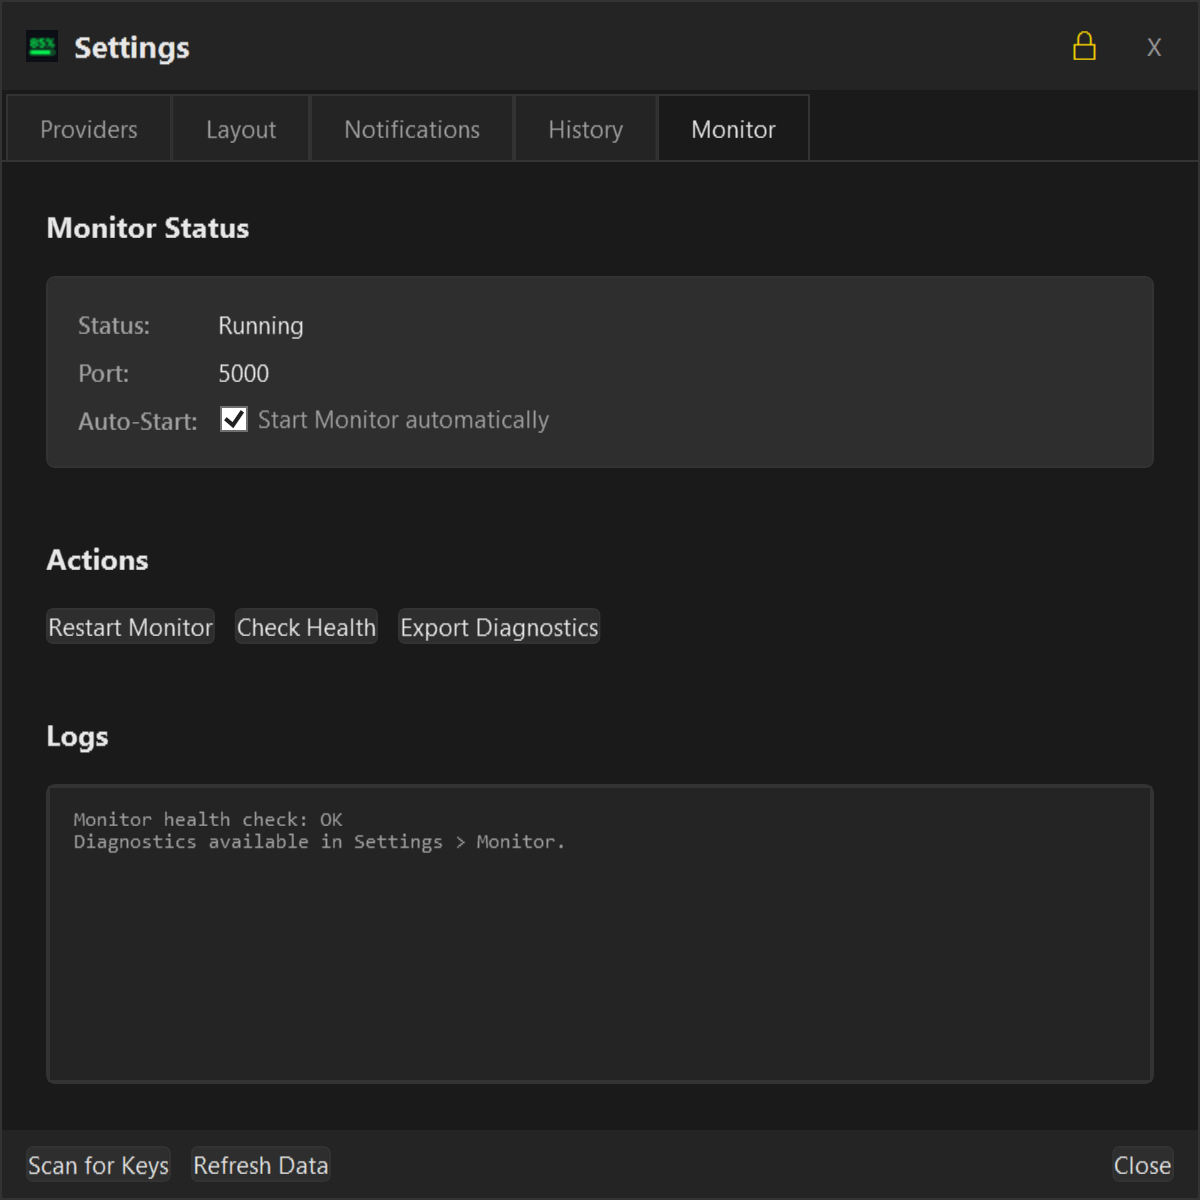
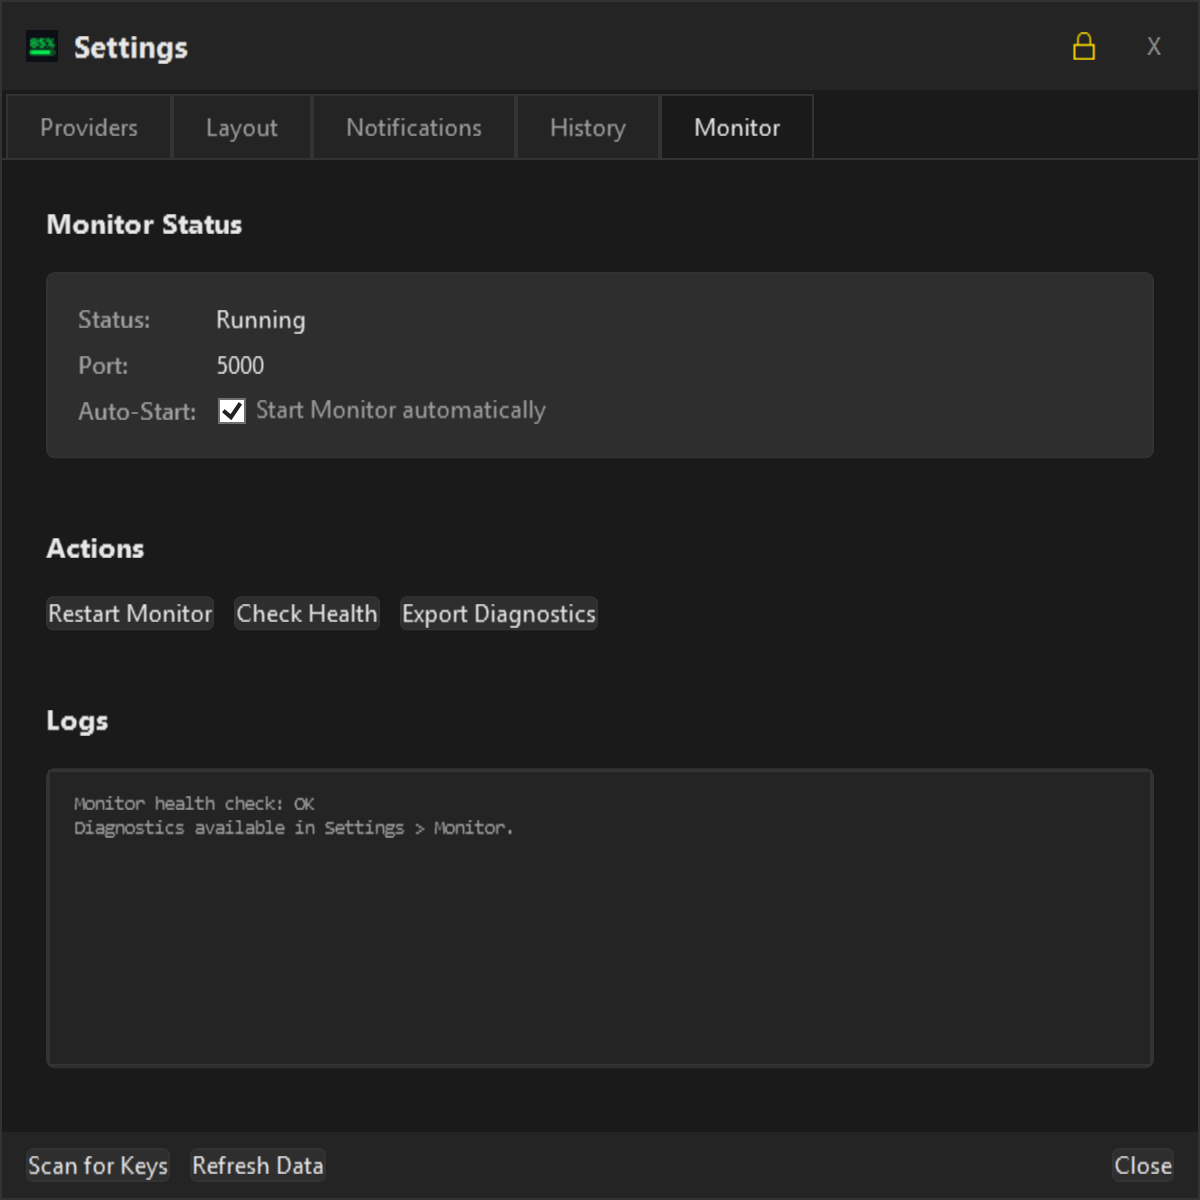
chore(release): bump version to 2.2.23 (#171)
* gfix(startup): trigger refresh on first empty poll for fresh installs

On fresh installs, Monitor starts a background refresh but it may not complete
before the UI gives up polling. This triggers a refresh on first empty poll
to ensure data appears quickly.

* chore(release): bump version to 2.2.23

* ci: auto-sync screenshot baselines on release branches

* fix: resolve merge conflict in MainWindow.xaml.cs

* docs: add API rate limiting and cooldown guidelines

* ci: fix PowerShell syntax in screenshot auto-sync step

* ci: fix detached HEAD push in screenshot auto-sync

* ci: fetch and rebase before pushing screenshot baselines

* chore: sync screenshot baselines from CI (windows-2025 runner)

---------

diff --git a/design/RULES.md b/design/RULES.md
@@ -565,6 +565,53 @@ public MyService(HttpClient httpClient) { }
 using var client = new HttpClient();
 ```
 
+### API Rate Limiting and Cooldowns
+**Rule**: Always implement cooldown periods when triggering third-party API calls to avoid hammering external services.
+
+**Rationale**: Third-party APIs have rate limits. Without cooldowns, rapid successive calls can:
+- Hit rate limits and get temporarily blocked
+- Waste API quota unnecessarily
+- Cause poor user experience with failed requests
+- Get the application banned from the service
+
+**Correct:**
+```csharp
+private const int RefreshCooldownSeconds = 120; // 2 minute cooldown
+private DateTime _lastRefreshTrigger = DateTime.MinValue;
+
+// Check cooldown before triggering refresh
+var secondsSinceLastRefresh = (DateTime.Now - _lastRefreshTrigger).TotalSeconds;
+if (attempt == 0 && secondsSinceLastRefresh >= RefreshCooldownSeconds)
+{
+    Debug.WriteLine("No data on first poll, triggering provider refresh...");
+    _lastRefreshTrigger = DateTime.Now; // Update timestamp
+    try
+    {
+        await _agentService.TriggerRefreshAsync();
+    }
+    catch (Exception ex)
+    {
+        Debug.WriteLine($"Trigger refresh failed: {ex.Message}");
+    }
+}
+```
+
+**Incorrect:**
+```csharp
+// No cooldown - can hammer APIs on every poll
+if (attempt == 0)
+{
+    await _agentService.TriggerRefreshAsync(); // Risk of rate limiting!
+}
+```
+
+**Guidelines:**
+- Use a minimum 2-minute (120 second) cooldown for refresh triggers
+- Track the last trigger time with a `DateTime` field
+- Only trigger when both conditions are met: first attempt AND cooldown expired
+- Update the timestamp immediately when triggering to prevent race conditions
+- Log when cooldown prevents a trigger for debugging
+
 ### Async All the Way
 **Rule**: Don't block on async code.
 

diff --git a/README.md b/README.md
@@ -1,6 +1,6 @@
 # <img src="AIUsageTracker.Web/wwwroot/favicon.png" width="32" height="32" valign="middle"> AI Usage Tracker
 
-![Version](https://img.shields.io/badge/version-2.2.22-orange)
+![Version](https://img.shields.io/badge/version-2.2.23-orange)
 ![License](https://img.shields.io/badge/license-MIT-green)
 ![Platforms](https://img.shields.io/badge/platforms-Windows%20|%20Linux%20-blue)
 ![Language](https://img.shields.io/badge/language-C%23%20|%20.NET-purple)

diff --git a/CHANGELOG.md b/CHANGELOG.md
@@ -2,6 +2,11 @@
 
 ## Unreleased
 
+## [2.2.23] - 2026-02-27
+
+### Fixed
+- Fixed compilation error in MainWindow.xaml.cs caused by orphaned code block referencing non-existent 'attempt' variable
+
 ## [2.2.22] - 2026-02-27
 
 ### Fixed
